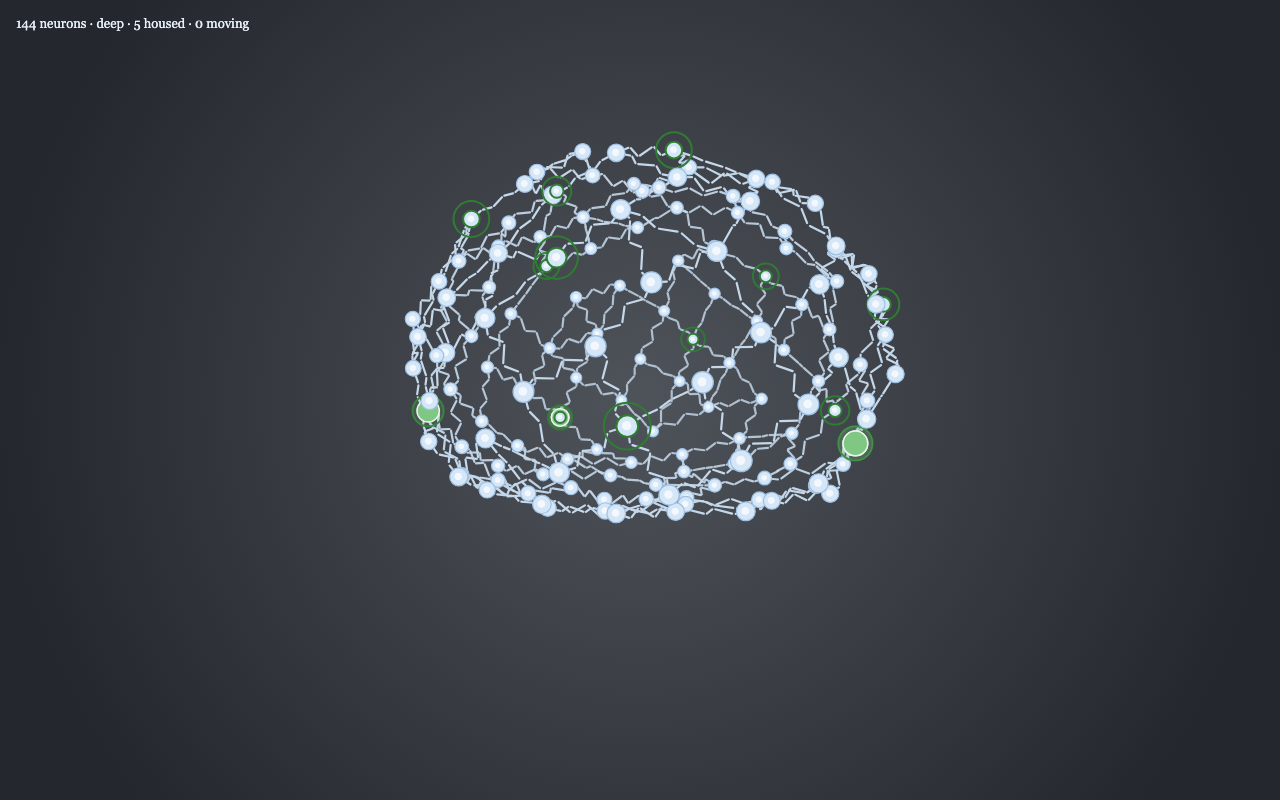
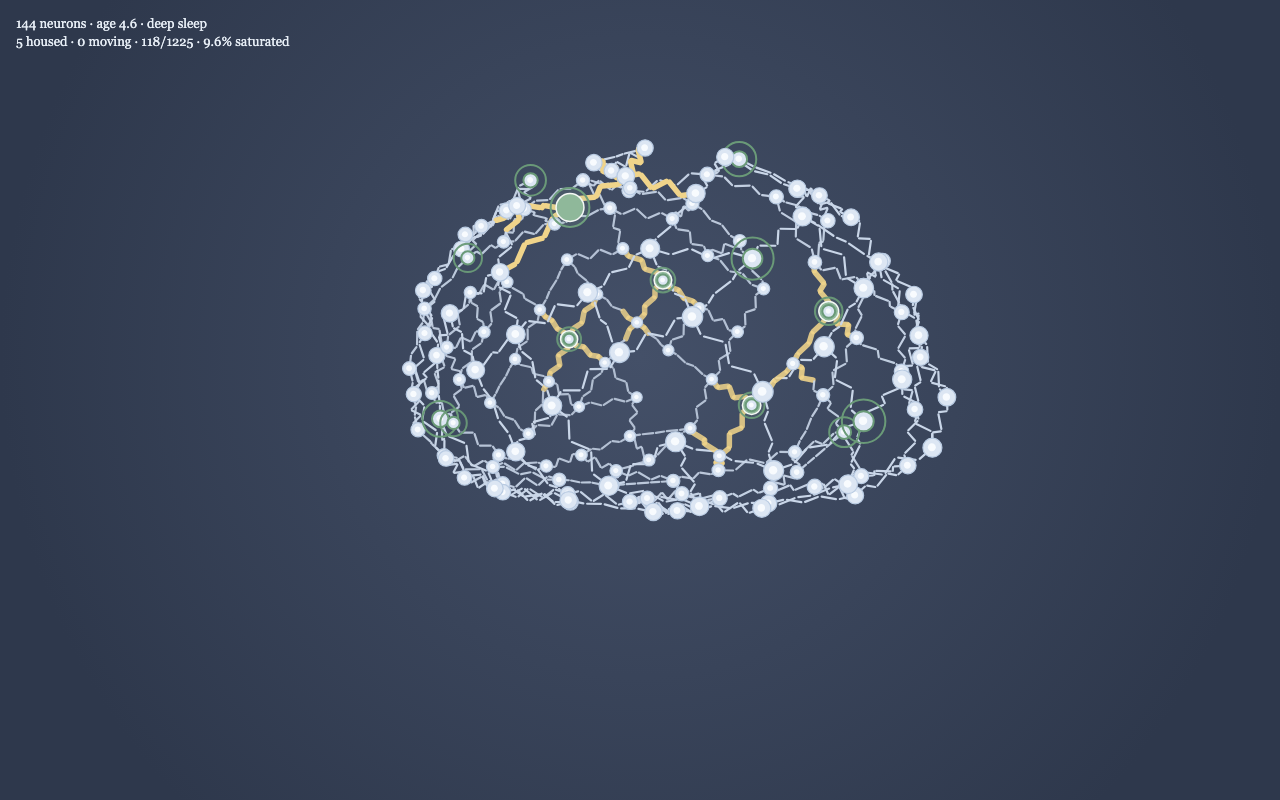
Soften the day colors so each brain state reads as a mild mood.
Fresh awake, overload, winding down, REM, deep sleep, and waking now use quieter neuron and thought colors, and the status names those states.

diff --git a/brain-3d/js/config.js b/brain-3d/js/config.js
@@ -66,36 +66,36 @@
     },
     // Awake palette from the 2D brain.
     colors: {
-      bgCenter: '#f6fbff',
-      bgEdge: '#d8eaf7',
-      soma: '#a9c9ea',
-      somaEdge: '#294b8b',
-      nucleus: '#f2f8fd',
-      schwann: '#78a8d2',
-      saturatedSchwann: '#f4c542',
-      anchorRing: '#2e7d32',
-      external: '#e53935',
-      externalCore: '#ffebee',
-      internal: '#1d6fe3',
-      internalCore: '#e5f0ff',
-      temporary: '#ff9800',
-      temporaryCore: '#fff3e0',
-      settled: '#81c784',
-      settledCore: '#e8f5e9',
-      needCenter: '#fff1f1',
-      needEdge: '#f6d5d5',
-      stage1Center: '#f4f0fb',
-      stage1Edge: '#e4dcf3',
-      remCenter: '#f3fbf4',
-      remEdge: '#d9f0dc',
-      deepCenter: '#4f535a',
-      deepEdge: '#24272d',
-      nightSoma: '#d5e6f6',
-      nightSomaEdge: '#9ec0e4',
-      nightSchwann: '#c5d8ea',
-      nightSaturatedSchwann: '#ffe082',
-      nightText: '#e7f0f8',
-      text: '#22407e'
+      bgCenter: '#f4f8fc',
+      bgEdge: '#d7e4f0',
+      soma: '#c5d8ec',
+      somaEdge: '#6d8aab',
+      nucleus: '#f8fbfe',
+      schwann: '#9bbfd4',
+      saturatedSchwann: '#e4bc55',
+      anchorRing: '#6a9a78',
+      external: '#d98986',
+      externalCore: '#fff7f5',
+      internal: '#7aa0d4',
+      internalCore: '#f3f7fc',
+      temporary: '#e0a56a',
+      temporaryCore: '#fff7ee',
+      settled: '#8fb89a',
+      settledCore: '#f4f8f5',
+      needCenter: '#fff5ee',
+      needEdge: '#f0d9cc',
+      stage1Center: '#f7f4fb',
+      stage1Edge: '#e4dced',
+      remCenter: '#f3f8f5',
+      remEdge: '#d7ebe0',
+      deepCenter: '#445068',
+      deepEdge: '#2e384c',
+      nightSoma: '#dce6f3',
+      nightSomaEdge: '#b9cbe2',
+      nightSchwann: '#c9d6e8',
+      nightSaturatedSchwann: '#f0d48a',
+      nightText: '#e7eef6',
+      text: '#3e5878'
     },
     sleep: {
       secondsPerHour: 2,

diff --git a/brain-3d/js/renderer.js b/brain-3d/js/renderer.js
@@ -403,6 +403,16 @@
       stats.housed = simulation.stats.housed;
     }
 
+    function phaseLabel() {
+      if (simulation.phase === 'awake') return 'fresh awake';
+      if (simulation.phase === 'sleep-needed') return 'overloaded';
+      if (simulation.phase === 'stage1') return 'winding down';
+      if (simulation.phase === 'rem') return 'REM sleep';
+      if (simulation.phase === 'deep') return 'deep sleep';
+      if (simulation.phase === 'waking') return 'waking';
+      return simulation.phase;
+    }
+
     function sensationLabel() {
       const item = simulation.external;
       if (!item.active) return '';
@@ -424,7 +434,7 @@
           stats.fps.toFixed(0) + ' fps';
       }
       return stats.neurons + ' neurons · age ' + simulation.age.toFixed(1) +
-        ' · ' + simulation.phase + sensationLabel() +
+        ' · ' + phaseLabel() + sensationLabel() +
         '\n' + detail;
     }
 

diff --git a/brain-3d/styles.css b/brain-3d/styles.css
@@ -2,7 +2,7 @@ html, body {
   margin: 0;
   height: 100%;
   overflow: hidden;
-  background: #d8eaf7;
+  background: #d7e4f0;
 }
 
 #stage {
@@ -16,10 +16,10 @@ html, body {
   right: 22px;
   bottom: 22px;
   z-index: 2;
-  border: 1px solid #294b8b;
+  border: 1px solid #6d8aab;
   border-radius: 999px;
-  background: rgba(246, 251, 255, 0.94);
-  color: #22407e;
+  background: rgba(244, 248, 252, 0.94);
+  color: #3e5878;
   font-family: Georgia, serif;
   font-size: 16px;
   line-height: 1;
@@ -30,6 +30,6 @@ html, body {
 #play-toggle:hover,
 #play-toggle:focus-visible {
   background: #ffffff;
-  outline: 2px solid #294b8b;
+  outline: 2px solid #6d8aab;
   outline-offset: 3px;
 }

diff --git a/brain-3d/Readme.md b/brain-3d/Readme.md
@@ -36,15 +36,16 @@ One deterministic cohort runs at a time:
 
 The night uses the 2D duration rule. Five unsettled homes start an 18-hour night; more unsettled homes shorten it along the 8-hour, 13-hour, and 4-hour anchors, and crystallized homes can only shorten it further. One simulated second represents two hours.
 
-- Awake is light blue. As temporary homes approach the threshold, the background warms toward light red.
-- Stage 1 is pale lavender. It lasts until the sensation already traveling has faded or found a home. No new sensation starts.
-- REM is very light green. It lasts at least half the calculated night, and longer if a temporary home is still walking to its domain center. Those homes travel at three times the daytime speed, then settle light green at their regular size.
-- As each thought reaches its permanent home, it blocks a Fibonacci-sized group of Schwann cells, which turn yellow. At low saturation it can claim 34 cells; the largest allowed group falls through 21, 13, 8, 5, 3, 2, and 1 as saturation grows. Selection proceeds clockwise from the permanent-home neuron and expands through neighboring neurons when the local cells are full.
-- Deep sleep is dark gray and lasts exactly the calculated half, even when REM ran longer. The neurons brighten so they stay visible.
+- Fresh awake is a soft morning blue. Sensations are dusty rose, internal thoughts are periwinkle, and temporary homes are apricot.
+- Overloaded warms the room toward peach as temporary homes approach the sleep threshold.
+- Winding down is pale lilac. No new sensation starts, while a sensation already traveling can still find a temporary home.
+- REM sleep is a soft sage. It lasts at least half the calculated night, and longer if a temporary home is still walking to its domain center. Those homes travel at three times the daytime speed, then settle sage at their regular size.
+- As each thought reaches its permanent home, it blocks a Fibonacci-sized group of Schwann cells, which turn honey yellow. At low saturation it can claim 34 cells; the largest allowed group falls through 21, 13, 8, 5, 3, 2, and 1 as saturation grows. Selection proceeds clockwise from the permanent-home neuron and expands through neighboring neurons when the local cells are full.
+- Deep sleep is a calm indigo and lasts exactly the calculated half, even when REM ran longer. The neurons lighten so they stay visible, and no new thoughts or sensations begin.
+- Waking eases from indigo back to morning blue.
 - Saturation is the blocked Schwann cells divided by every Schwann cell. A calibrated biological-age curve maps 80% saturation to age 50 and approaches an 84% ceiling. Sensations arrive most often at age 0; their spacing grows as the displayed age rises. The brain starts at 6° per second and slows toward 0.6° per second as saturation rises.
 
 ![Deep sleep after the temporary homes have settled](screenshots/deep.png)
-- Waking eases from dark gray back to light blue.
 
 ## Running it
 
